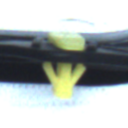
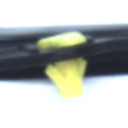
fix daily inspection bug

diff --git a/aikensa/inspection_thread.py b/aikensa/inspection_thread.py
@@ -246,6 +246,7 @@ class InspectionThread(QThread):
 
         self.InspectionImages_prev = [None]*30
         self._test = [0]*30
+
         self.widget_dir_map = {
             5: "82833W050P",
             6: "82832W040P",
@@ -259,6 +260,9 @@ class InspectionThread(QThread):
             14: "82832W040PCLIPSOUNYUUKI",
             15: "82833W090PCLIPSOUNYUUKI",
             16: "82832W080PCLIPSOUNYUUKI",
+            21: "dailyTenken_01",
+            22: "dailyTenken_02",
+            23: "dailyTenken_03",
         }
 
         #for widget name map, append the string "P" to the initial widget dir map
@@ -1022,25 +1026,25 @@ class InspectionThread(QThread):
                     print("Inspection Started")
                     # print(self.inspection_config.widget)
                     print(self.inspection_config.kensainNumber)
-                    if self.inspection_config.kensainNumber not in ["KENGEN", "10194"]:
-                        print("NoKengen")
-                        # imgresults = cv2.cvtColor(self.combinedImage_scaled, cv2.COLOR_BGR2RGB)
-                        # imgresults = np.ascontiguousarray(imgresults)
-                        # img_pil = Image.fromarray(imgresults)
-                        # font = ImageFont.truetype(self.kanjiFontPath, 60)
-                        # draw = ImageDraw.Draw(img_pil)
-                        # centerpos = (imgresults.shape[1] // 2, imgresults.shape[0] // 2) 
-                        # draw.text((centerpos[0]-800, centerpos[1]+20), u"管理者権限が必要", font=font, fill=(160, 200, 10, 0))
-                        # imgResult = cv2.cvtColor(np.array(img_pil), cv2.COLOR_RGB2BGR)
-                        # self.combinedImage_scaled = imgResult
-                        # print("Image shape:", self.combinedImage_scaled.shape)
-                        # print("Data type:", self.combinedImage_scaled.dtype)
-                        # play_alarm_sound()
-                        self.combinedImage_scaled = self.draw_status_text_PIL(self.combinedImage_scaled, "管理者権限が必要", (50,150,10), size="large", x_offset = -500, y_offset = -100)
-                        # self.combinedImage_scaled = self.add_admin_warning(self.combinedImage_scaled, u"管理者権限が必要", self.kanjiFontPath)
-                        self.partCam.emit(self.convertQImage(self.combinedImage_scaled))
-                        time.sleep(2)
-                        continue
+                    # if self.inspection_config.kensainNumber not in ["KENGEN", "10194"]:
+                    #     print("NoKengen")
+                    #     # imgresults = cv2.cvtColor(self.combinedImage_scaled, cv2.COLOR_BGR2RGB)
+                    #     # imgresults = np.ascontiguousarray(imgresults)
+                    #     # img_pil = Image.fromarray(imgresults)
+                    #     # font = ImageFont.truetype(self.kanjiFontPath, 60)
+                    #     # draw = ImageDraw.Draw(img_pil)
+                    #     # centerpos = (imgresults.shape[1] // 2, imgresults.shape[0] // 2) 
+                    #     # draw.text((centerpos[0]-800, centerpos[1]+20), u"管理者権限が必要", font=font, fill=(160, 200, 10, 0))
+                    #     # imgResult = cv2.cvtColor(np.array(img_pil), cv2.COLOR_RGB2BGR)
+                    #     # self.combinedImage_scaled = imgResult
+                    #     # print("Image shape:", self.combinedImage_scaled.shape)
+                    #     # print("Data type:", self.combinedImage_scaled.dtype)
+                    #     # play_alarm_sound()
+                    #     self.combinedImage_scaled = self.draw_status_text_PIL(self.combinedImage_scaled, "管理者権限が必要", (50,150,10), size="large", x_offset = -500, y_offset = -100)
+                    #     # self.combinedImage_scaled = self.add_admin_warning(self.combinedImage_scaled, u"管理者権限が必要", self.kanjiFontPath)
+                    #     self.partCam.emit(self.convertQImage(self.combinedImage_scaled))
+                    #     time.sleep(2)
+                    #     continue
                     
 
                     if self.InspectionTimeStart is not None:
@@ -1372,7 +1376,7 @@ class InspectionThread(QThread):
                             if self.emit is None:
                                 self.emit = np.zeros((428, 1791, 3), dtype=np.uint8)
 
-                            self.emit = self.draw_status_text_PIL(self.emit, "構成確認中", (50,150,10), size="large", x_offset = -200, y_offset = -100)
+                            self.emit = self.draw_status_text_PIL(self.emit, "校正確認中", (50,150,10), size="large", x_offset = -280, y_offset = -100)
                             self.partCam.emit(self.convertQImage(self.emit))
 
                             self.mergeframe1 = cv2.remap(self.mergeframe1, self.inspection_config.map1[0], self.inspection_config.map2[0], interpolation=cv2.INTER_LINEAR, borderMode=cv2.BORDER_CONSTANT)
@@ -1392,7 +1396,7 @@ class InspectionThread(QThread):
                                 self.InspectionResult_ClipDetection[i] = get_sliced_prediction(
                                             self.InspectionImages_bgr[i], 
                                             self.NICHIJOU_TENKEN_Model, 
-                                            slice_height=1980, slice_width=1280, 
+                                            slice_height=1980, slice_width=1980, 
                                             overlap_height_ratio=0.0, overlap_width_ratio=0.2,
                                             postprocess_match_metric="IOS",
                                             postprocess_match_threshold=0.2,

diff --git a/aikensa/parts_config/dailyTenken.py b/aikensa/parts_config/dailyTenken.py
@@ -20,7 +20,7 @@ ng_sound = pygame.mixer.Sound("aikensa/sound/mixkit-classic-short-alarm-993.wav"
 ng_sound_v2 = pygame.mixer.Sound("aikensa/sound/mixkit-system-beep-buzzer-fail-2964.wav")
 kanjiFontPath = "aikensa/font/NotoSansJP-ExtraBold.ttf"
 
-pitchSpech = 100.0
+pitchSpec = 100.0
 pitchTolerance = 1.0
 
 color = (0, 255, 0)
@@ -31,7 +31,7 @@ bbox_offset = 10
 
 # segmentation_width = 1640
 
-pixelMultiplier = 0.1598
+pixelMultiplier = 0.1594
 
 def dailyTenken(image, sahi_predictionList):
 
@@ -61,7 +61,7 @@ def dailyTenken(image, sahi_predictionList):
     leftmostPitch = 0
     rightmostPitch = 0
 
-    status = "OK"
+    status = "NG"
     print_status = ""
     ngreason = ""
 
@@ -92,24 +92,35 @@ def dailyTenken(image, sahi_predictionList):
         measuredPitch.append(length)
 
     #if length is not equal to spec plus minus tolerance, status is NG
+    if len(measuredPitch) == 0:
+        status = "NG"
+        print_status += f"製品認識不良\n"
+        flag_pitch_furyou = 1
+        ngreason = "CALIBRATION NG"
+
+    print(pitchSpec - measuredPitch[0])
+
+    print(f"Pitch Tolerance: {pitchTolerance}")
+
     if len(measuredPitch) > 0:
-        if abs(pitchSpech - measuredPitch[0]) > pitchTolerance:
+        if abs(pitchSpec - measuredPitch[0]) > pitchTolerance:
             status = "NG"
-            print_status += f"構成不良 {measuredPitch[0]:.2f}mm\n"
+            print_status += f"校正不良 {measuredPitch[0]:.2f}mm\n"
             flag_pitch_furyou = 1
             ngreason = "CALIBRATION NG"
         else:
-            print_status += f"構成良好 {measuredPitch[0]:.2f}mm\n"
+            status = "OK"
+            print_status += f"校正良好 {measuredPitch[0]:.2f}mm\n"
 
     xy_pairs = list(zip(detectedposX, detectedposY))
     draw_pitch_line(image, xy_pairs, resultPitch, thickness=8)
 
-    image = draw_status_text_PIL(image, status, print_status, size="normal")
+    image = draw_status_text_PIL(image, status, print_status, size="normal", offset_y=650)
     
     return image, measuredPitch, resultPitch, resultid, status, ngreason
 
 
-def draw_status_text_PIL(image, status, print_status, size = "normal"):
+def draw_status_text_PIL(image, status, print_status, size = "normal", offset_y=0):
 
     if size == "large":
         font_scale = 50.0
@@ -129,8 +140,8 @@ def draw_status_text_PIL(image, status, print_status, size = "normal"):
     draw = ImageDraw.Draw(img_pil)
     font = ImageFont.truetype(kanjiFontPath, font_scale)
 
-    draw.text((300, 5), status, font=font, fill=color)  
-    draw.text((300, 100), print_status, font=font, fill=color)
+    draw.text((300, 5 + offset_y), status, font=font, fill=color)  
+    draw.text((300, 100 + offset_y), print_status, font=font, fill=color)
     image = cv2.cvtColor(np.array(img_pil), cv2.COLOR_RGB2BGR)
     cv2.imwrite("test.png", image)
     return image

diff --git a/aikensa/AIKensa.py b/aikensa/AIKensa.py
@@ -293,7 +293,7 @@ class AIKensa(QMainWindow):
 
         self.siostatus_server = [self.stackedWidget.widget(i).findChild(QLabel, "status_sio") for i in [0, 1, 2, 3, 4, 5, 6, 7, 8, 9, 10, 11, 12, 13, 14, 15, 16, 21, 22, 23]]
 
-        self.inspection_widget_indices = [5, 6, 7, 8, 9, 10, 11, 12, 13, 14, 15, 16]
+        self.inspection_widget_indices = [5, 6, 7, 8, 9, 10, 11, 12, 13, 14, 15, 16, 21, 22, 23]
 
         for i in self.inspection_widget_indices:
             self.Inspect_button = self.stackedWidget.widget(i).findChild(QPushButton, "InspectButton")
@@ -977,7 +977,7 @@ class AIKensa(QMainWindow):
         label.setPixmap(QPixmap.fromImage(image))
 
     def _setPartFrame(self, image):
-        for i in [5, 6, 7, 8, 9, 10, 11, 12, 13, 14, 15, 16]:
+        for i in [5, 6, 7, 8, 9, 10, 11, 12, 13, 14, 15, 16, 21, 22, 23]:
             widget = self.stackedWidget.widget(i)
             label = widget.findChild(QLabel, "framePart")
             label.setPixmap(QPixmap.fromImage(image))
